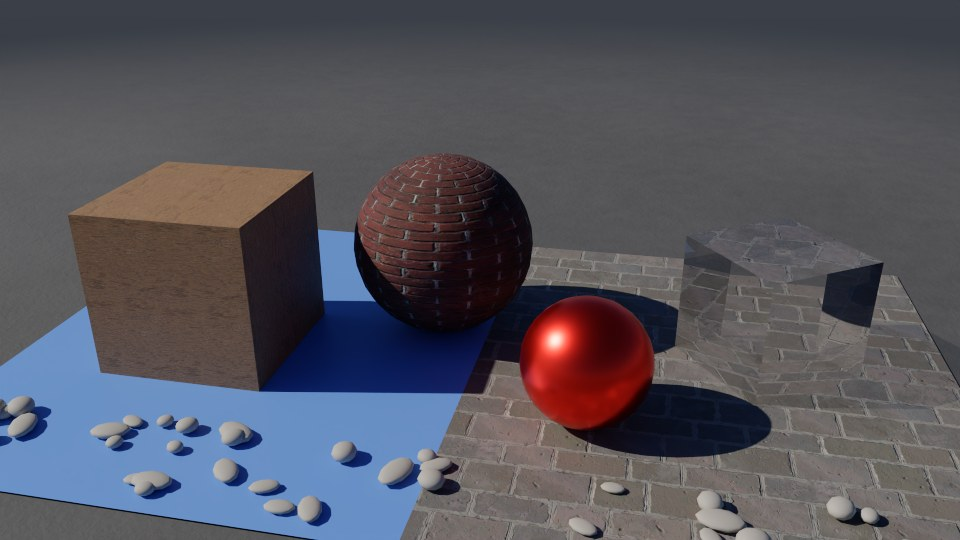
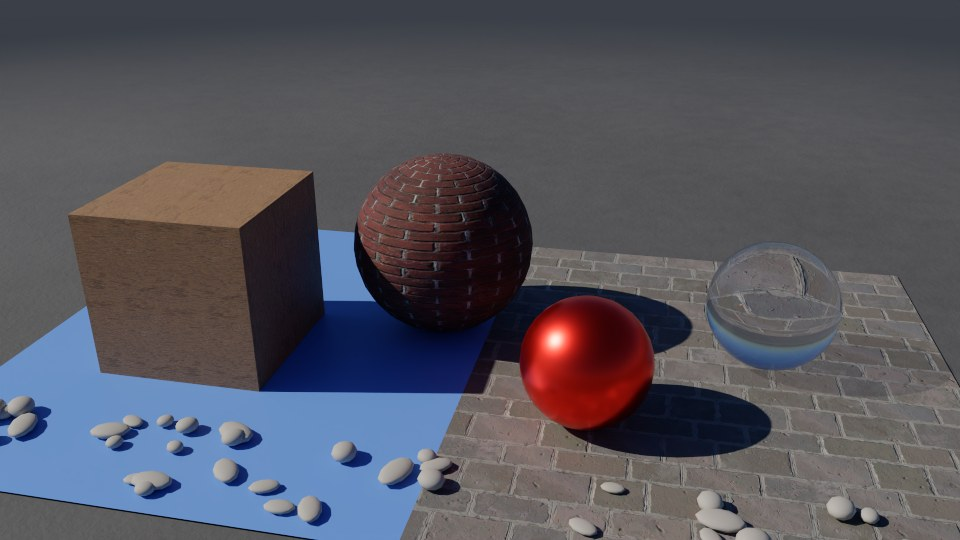
feat: smooth glass -- glass with normals of its own shades by them in the viewport, the path tracer and Cycles; flat only without
Glass took the face's flat normal everywhere, so a ball or a bottle of
glass came out faceted. Now a corner of glass takes its own N or its
point's, as the opaque surfaces do; glass without N -- the panes and
cracks of Glass Fracture -- stays flat. Which way a ray comes into a piece
of glass is still told by the face as its corners go round: the
viewport's glass triangles carry the face's normal beside the corner's
(13 floats a corner), its glass shader keeps the faces turned to the eye
by it and turns a smooth normal that looks away at the rim towards the
eye; the path tracer already decides entering by the face.

The usd_looks example's glass is now a ball with point normals, smooth in
all three renderers.

Claude-Session: https://claude.ai/code/session_01HhnUNtTimHBgdBM7qs8K3b

Changed region(s): [[0.6875, 0.4741, 0.9375, 0.7407], [0.7812, 0.4444, 0.8125, 0.4741]]

diff --git a/tests/test_glass.cpp b/tests/test_glass.cpp
@@ -3,9 +3,10 @@
 // breaks where it is struck -- closed shards that make the pane, slivers at
 // the blow and wide shards further out, cracks square to the pane however
 // it lies, the same every time and on any number of threads; drawn
-// (src/pg/sim/Display.h) apart from the rest, its chips dots below 0; and
-// the RBD Solver (src/pg/sim/Rigid.h) keeps a pane whole -- no cracks --
-// until it breaks, when it throws chips of glass and little dust.
+// (src/pg/sim/Display.h) apart from the rest, its chips dots below 0,
+// smooth by normals of its own and else flat; and the RBD Solver
+// (src/pg/sim/Rigid.h) keeps a pane whole -- no cracks -- until it breaks,
+// when it throws chips of glass and little dust.
 //
 #include "pg/core/CookEngine.h"
 #include "pg/core/Graph.h"
@@ -283,15 +284,18 @@ TEST(glass_is_drawn_apart_from_the_rest_and_its_chips_below_zero) {
     CHECK_EQ(d.glassCount(), glassTriangles);
     std::set<float> kinds;
     for (size_t t = 0; t < d.glassCount(); ++t) {
-        const float* c = d.glass.data() + 30 * t;
-        // Flat: each corner the face's own normal, as its corners go round.
-        const Vec3 a(c[0], c[1], c[2]), b(c[10], c[11], c[12]), e(c[20], c[21], c[22]);
+        const float* c = d.glass.data() + 39 * t;
+        // Flat, of no normals of its own: each corner the face's own
+        // normal, as its corners go round -- and the face's, which way a ray
+        // comes into it.
+        const Vec3 a(c[0], c[1], c[2]), b(c[13], c[14], c[15]), e(c[26], c[27], c[28]);
         const Vec3 n = normalize(cross(b - a, e - a));
         for (int k = 0; k < 3; ++k) {
-            const float* v = c + 10 * k;
+            const float* v = c + 13 * k;
             CHECK(length(Vec3(v[3], v[4], v[5]) - n) < 1e-3f);
             CHECK(Vec3(v[6], v[7], v[8]) == Vec3(0.82f, 0.9f, 0.88f));
             CHECK_EQ(v[9], c[9]);
+            CHECK(length(Vec3(v[10], v[11], v[12]) - n) < 1e-3f);
         }
         kinds.insert(c[9]);
     }
@@ -301,6 +305,83 @@ TEST(glass_is_drawn_apart_from_the_rest_and_its_chips_below_zero) {
     CHECK_NEAR(d.dots[7 + 6], 0.02f, 1e-6f);   // the other
     // Its box takes the glass in.
     CHECK(d.lo.y <= 0.8f + 1e-4f && d.hi.y >= 1.2f - 1e-4f);
+}
+
+TEST(glass_with_normals_of_its_own_is_smooth_and_faces_as_its_corners_go_round) {
+    // Two faces of glass folded along a ridge, the points' N between them
+    // -- as a round piece of glass has them.
+    Geometry geo;
+    geo.addPoints(6);
+    {
+        auto P = geo.positionsForWrite();
+        const Vec3 at[6] = {{0.0f, 0.0f, 0.0f}, {0.0f, 0.0f, 1.0f}, {0.5f, 0.3f, 1.0f},
+                            {0.5f, 0.3f, 0.0f}, {1.0f, 0.0f, 1.0f}, {1.0f, 0.0f, 0.0f}};
+        for (size_t i = 0; i < 6; ++i) P[i] = at[i];
+    }
+    const uint32_t left[4] = {0, 1, 2, 3}, right[4] = {3, 2, 4, 5};
+    geo.addPrimitive(left, true);
+    geo.addPrimitive(right, true);
+    auto glass = geo.primitives().create("glass", AttrType::Int).write<int32_t>();
+    glass[0] = glass[1] = 1;
+    const Vec3 up(0.0f, 1.0f, 0.0f), outLeft = normalize(Vec3(-0.3f, 0.5f, 0.0f)), outRight = normalize(Vec3(0.3f, 0.5f, 0.0f));
+    const std::vector<Vec3> N = {outLeft, outLeft, up, up, outRight, outRight};
+    {
+        auto w = geo.points().create("N", AttrType::Vec3).write<Vec3>();
+        for (size_t i = 0; i < 6; ++i) w[i] = N[i] * 2.0f;  // not a unit long
+    }
+
+    // Each face as its corners go round, out of the solid; a corner shaded
+    // by the N it is given -- that of its point -- or, given none, flat.
+    auto faceOf = [](const Vec3& a, const Vec3& b, const Vec3& c) { return normalize(cross(b - a, c - a)); };
+    auto pointAt = [&](const Vec3& p) {
+        size_t point = 0;
+        for (size_t i = 0; i < 6; ++i) {
+            if (length(geo.positions()[i] - p) < 1e-6f) point = i;
+        }
+        return point;
+    };
+    auto shadedAs = [&](const Geometry& g, const std::vector<Vec3>& given) {
+        bool ok = true;
+        const DisplayGeometry d = displayOf(g);
+        ok = ok && d.glassCount() == 4;
+        for (size_t t = 0; t < d.glassCount(); ++t) {
+            const float* c = d.glass.data() + 39 * t;
+            const Vec3 face = faceOf(Vec3(c[0], c[1], c[2]), Vec3(c[13], c[14], c[15]), Vec3(c[26], c[27], c[28]));
+            for (int k = 0; k < 3; ++k) {
+                const float* v = c + 13 * k;
+                const Vec3 shade = given.empty() ? face : given[pointAt(Vec3(v[0], v[1], v[2]))];
+                ok = ok && length(normalize(Vec3(v[3], v[4], v[5])) - shade) < 1e-4f;
+                ok = ok && length(Vec3(v[10], v[11], v[12]) - face) < 1e-4f;
+            }
+        }
+        // ... and as the renderers have it.
+        const ShadedTriangles s = shadedTriangles(g);
+        ok = ok && s.count() == 4;
+        for (size_t t = 0; t < s.count(); ++t) {
+            ok = ok && s.glass[t] == 1;
+            const Vec3 face = faceOf(s.positions[3 * t], s.positions[3 * t + 1], s.positions[3 * t + 2]);
+            for (size_t k = 0; k < 3; ++k) {
+                const Vec3 shade = given.empty() ? face : given[pointAt(s.positions[3 * t + k])];
+                ok = ok && length(s.normals[3 * t + k] - shade) < 1e-4f;
+            }
+        }
+        return ok;
+    };
+    // Smooth by its points' N.
+    CHECK(shadedAs(geo, N));
+    // ... by its corners' -- before the points'.
+    Geometry corners = geo;
+    {
+        auto w = corners.vertices().create("N", AttrType::Vec3).write<Vec3>();
+        for (size_t c = 0; c < w.size(); ++c) w[c] = N[corners.vertexPoint(c)];
+        auto other = corners.points().find("N")->write<Vec3>();
+        for (size_t i = 0; i < other.size(); ++i) other[i] = Vec3(1.0f, 0.0f, 0.0f);
+    }
+    CHECK(shadedAs(corners, N));
+    // Of none: flat, each face its own.
+    Geometry flat = geo;
+    flat.points().erase("N");
+    CHECK(shadedAs(flat, {}));
 }
 
 TEST(glass_is_whole_until_it_breaks) {

diff --git a/src/pg/sim/Display.h b/src/pg/sim/Display.h
@@ -5,12 +5,14 @@
 //   polygons   triangles (a fan across each closed polygon), lit, in the
 //              colour Cd of each corner -- the vertex's, else the point's,
 //              the primitive's, the detail's, or a light grey -- bent by the
-//              points' N where there is one, else by the faces round each
-//              corner that bend less than 60 degrees from its own: round
-//              things come out round, a box keeps its edges;
+//              corner's N, else its point's, where there is one, else by the
+//              faces round each corner that bend less than 60 degrees from
+//              its own: round things come out round, a box keeps its edges;
 //   glass      the polygons of primitives whose attribute glass is 1 or more:
 //              triangles apart from the rest, the colour their tint -- 2 for
-//              the faces of a crack, what light runs along;
+//              the faces of a crack, what light runs along -- smooth by the
+//              corners' or the points' N where there is one (a bottle, a
+//              lens), else flat;
 //   polylines  the open primitives, as line segments in their colour;
 //   points     those no primitive uses, as dots: pscale wide where they have
 //              one, else a few pixels -- a glass chip (a point attribute
@@ -43,9 +45,11 @@ struct DisplayGeometry {
     /// units a second -- what motion blur needs. Empty when the points have
     /// no v.
     std::vector<float> velocities;
-    /// Ten floats a corner, three corners a triangle: position, normal --
-    /// out of the solid, as its corners turn -- tint, and 1 for a face of
-    /// the pane, 2 for a face of a crack.
+    /// Thirteen floats a corner, three corners a triangle: position,
+    /// normal -- the corner's or its point's N where there is one, else the
+    /// face's --, tint, 1 for a face of the pane, 2 for a face of a crack,
+    /// and the face's normal: out of the solid, as its corners turn --
+    /// which way a ray comes into a piece of it.
     std::vector<float> glass;
     /// Seven floats a dot: position, colour, radius -- world units; 0 for a
     /// dot a few pixels wide; below 0 a chip of glass as wide.
@@ -58,7 +62,7 @@ struct DisplayGeometry {
     size_t dotsLeftOut = 0;
 
     size_t triangleCount() const { return triangles.size() / 27; }
-    size_t glassCount() const { return glass.size() / 30; }
+    size_t glassCount() const { return glass.size() / 39; }
     size_t dotCount() const { return dots.size() / 7; }
     size_t segmentCount() const { return lines.size() / 14; }
     bool empty() const { return triangles.empty() && glass.empty() && dots.empty() && lines.empty(); }
@@ -72,8 +76,9 @@ DisplayGeometry displayOf(const Geometry& geo, size_t maxDots = 400000, bool fac
 
 /// The closed polygons of `geo` as the viewport shades them, for a renderer
 /// of its own: fans of triangles, three corners each -- place, normal (the
-/// points' N where every point has a usable one, else the faces' round the
-/// corner within the viewport's crease; glass flat) and colour (Cd as
+/// corner's N, else its point's, where there is a usable one, else the
+/// faces' round the corner within the viewport's crease; glass without N of
+/// its own flat) and colour (Cd as
 /// displayOf finds it) -- the primitive each came from, and its glass: 0
 /// none, 1 a pane, 2 a crack. Where the points have rest (where they were
 /// before they moved), that of each corner too; where they have a velocity

diff --git a/src/pg/sim/Display.cpp b/src/pg/sim/Display.cpp
@@ -347,12 +347,15 @@ ShadedTriangles shadedTriangles(const Geometry& geo) {
                 if (!v.empty()) out.velocities[3 * t + c] = v[p];
                 if (vertexUv) out.uvs[3 * t + c] = uvAt(*vertexUv, corners[t][c]);
                 else if (pointUv) out.uvs[3 * t + c] = uvAt(*pointUv, p);
-                // The corner's own normal, else its point's, else as the faces bend.
+                // The corner's own normal, else its point's, else as the
+                // faces bend -- glass flat there, as the viewport has it: a
+                // pane's faces, a crack's.
                 const size_t corner = corners[t][c];
+                const bool given = givenNormal(ownN, corner) || givenNormal(pointN, p);
                 Vec3 nrm = givenNormal(ownN, corner) ? normalize(ownN[corner])
                            : givenNormal(pointN, p)  ? normalize(pointN[p])
                                                      : made[3 * t + c];
-                if (out.glass[t] != 0 && length(flat) > 0.5f) nrm = flat;  // glass is flat, as the viewport has it
+                if (out.glass[t] != 0 && !given && length(flat) > 0.5f) nrm = flat;
                 out.normals[3 * t + c] = nrm;
                 out.colors[3 * t + c] = colors.at(out.prims[t], corners[t][c], p);
             }
@@ -434,14 +437,19 @@ DisplayGeometry displayOf(const Geometry& geo, size_t maxDots, bool faces) {
                 const Vec3 col = cornerColor(owner[t], corners[t][static_cast<size_t>(c)], p);
                 grow(d, P[p]);
                 if (kind >= 0.5f) {
-                    // Glass is flat: each face its own normal, as its corners
-                    // go round -- which way it faces tells where a ray comes
-                    // into a piece of it.
+                    // Glass: its face's normal, as its corners go round --
+                    // which way it faces tells where a ray comes into a piece
+                    // of it. Shaded by the corner's N or its point's where
+                    // there is one -- a bottle, a lens -- else flat.
                     const Vec3& a = P[tris[t][0]];
-                    const Vec3 f = normalize(cross(P[tris[t][1]] - a, P[tris[t][2]] - a));
-                    if (length(f) > 0.5f) n = f;
+                    Vec3 f = normalize(cross(P[tris[t][1]] - a, P[tris[t][2]] - a));
+                    if (length(f) > 0.5f) {
+                        if (!givenNormal(ownN, corner) && !givenNormal(pointN, p)) n = f;
+                    } else {
+                        f = n;
+                    }
                     d.glass.insert(d.glass.end(), {P[p].x, P[p].y, P[p].z, n.x, n.y, n.z, col.x, col.y, col.z,
-                                                   kind >= 1.5f ? 2.0f : 1.0f});
+                                                   kind >= 1.5f ? 2.0f : 1.0f, f.x, f.y, f.z});
                     continue;
                 }
                 d.triangles.insert(d.triangles.end(), {P[p].x, P[p].y, P[p].z, n.x, n.y, n.z, col.x, col.y, col.z});

diff --git a/src/pg/gl/Volume.cpp b/src/pg/gl/Volume.cpp
@@ -1332,20 +1332,24 @@ void main() {
 // The faces of the glass turned to the eye, into a buffer as the meshes go
 // into theirs: the normal, the tint -- as a number, below 0 on the face of
 // a crack -- and how far along the ray. Drawn twice: the nearest face, and
-// then, peeled off it, the nearest behind that. A face turned away is where
-// a ray leaves a piece of glass, not where it comes into one.
+// then, peeled off it, the nearest behind that. A face turned away -- as
+// its corners go round, whatever its normals -- is where a ray leaves a
+// piece of glass, not where it comes into one.
 const char* kGlassVertex = R"(#version 330 core
 layout(location = 0) in vec3 a_position;
 layout(location = 1) in vec3 a_normal;
 layout(location = 2) in vec3 a_color;
 layout(location = 3) in float a_kind;  // 1 a face of the pane, 2 of a crack
+layout(location = 4) in vec3 a_face;   // the face's normal, as its corners go round
 uniform mat4 u_viewProj;
 out vec3 v_world, v_normal, v_color;
+flat out vec3 v_face;
 flat out float v_kind;
 void main() {
     v_world = a_position;
     v_normal = a_normal;
     v_color = a_color;
+    v_face = a_face;
     v_kind = a_kind;
     gl_Position = u_viewProj * vec4(a_position, 1.0);
 }
@@ -1353,6 +1357,7 @@ void main() {
 
 const char* kGlassFragment = R"(#version 330 core
 in vec3 v_world, v_normal, v_color;
+flat in vec3 v_face;
 flat in float v_kind;
 out vec4 o_g;
 uniform vec3 u_eye;
@@ -1361,13 +1366,18 @@ uniform sampler2D u_first;   // the first
 vec2 octWrap(vec2 v) { return (1.0 - abs(v.yx)) * vec2(v.x >= 0.0 ? 1.0 : -1.0, v.y >= 0.0 ? 1.0 : -1.0); }
 void main() {
     vec3 view = v_world - u_eye;
-    if (dot(v_normal, view) >= 0.0) discard;
+    if (dot(v_face, view) >= 0.0) discard;
     float far = length(view);
     if (u_peel) {
         float first = texelFetch(u_first, ivec2(gl_FragCoord.xy), 0).w;
         if (first < 0.0 || far <= first * (1.0 + 1e-5) + 1e-5) discard;
     }
+    // Its normal -- smooth where the geometry gives one -- turned to the eye
+    // where, at the edge of a round piece, it would look away.
     vec3 n = normalize(v_normal);
+    vec3 back = -view / far;
+    float facing = dot(n, back);
+    if (facing < 0.02) n = normalize(n + back * (0.02 - facing));
     n /= abs(n.x) + abs(n.y) + abs(n.z);
     vec3 c = floor(clamp(v_color, 0.0, 1.0) * 255.0 + 0.5);
     float code = 1.0 + c.r + c.g * 256.0 + c.b * 65536.0;
@@ -3170,7 +3180,7 @@ void VolumeRenderer::uploadGeometry() {
     gl_.BindVertexArray(0);
     upload(dotVao_, dotBuffer_, d.dots, {{0, 3}, {1, 3}, {2, 1}});
     upload(curveVao_, curveBuffer_, d.lines, {{0, 3}, {1, 4}});
-    upload(glassVao_, glassBuffer_, d.glass, {{0, 3}, {1, 3}, {2, 3}, {3, 1}});
+    upload(glassVao_, glassBuffer_, d.glass, {{0, 3}, {1, 3}, {2, 3}, {3, 1}, {4, 3}});
     glassVertices_ = static_cast<GLsizei>(d.glassCount() * 3);
     geoVertices_ = static_cast<GLsizei>(d.triangles.size() / 9);
     geoShadowDirty_ = true;

diff --git a/examples/usd/make_looks.py b/examples/usd/make_looks.py
@@ -31,17 +31,13 @@ def mesh(path, points, counts, indices, st=None, st_interpolation="faceVarying")
     return m
 
 
-def box(path, centre, size, turn=0.0):
+def box(path, centre, size):
     h = [s / 2 for s in size]
-    c = (0.0, 0.0, 0.0) if turn else centre
-    corners = [(c[0] + sx * h[0], c[1] + sy * h[1], c[2] + sz * h[2]) for sz in (-1, 1) for sy in (-1, 1) for sx in (-1, 1)]
+    corners = [(centre[0] + sx * h[0], centre[1] + sy * h[1], centre[2] + sz * h[2])
+               for sz in (-1, 1) for sy in (-1, 1) for sx in (-1, 1)]
     faces = [(0, 2, 3, 1), (4, 5, 7, 6), (0, 1, 5, 4), (2, 6, 7, 3), (0, 4, 6, 2), (1, 3, 7, 5)]
     st = [(0, 0), (1, 0), (1, 1), (0, 1)] * 6
-    m = mesh(path, corners, [4] * 6, [i for f in faces for i in f], st)
-    if turn:
-        m.AddTranslateOp().Set(Gf.Vec3d(*centre))
-        m.AddRotateYOp().Set(turn)
-    return m
+    return mesh(path, corners, [4] * 6, [i for f in faces for i in f], st)
 
 
 def sphere(path, centre, radius, rows=16, columns=32):
@@ -133,13 +129,13 @@ s.CreateInput("roughness", Sdf.ValueTypeNames.Float).Set(0.3)
 red.CreateSurfaceOutput().ConnectToSource(s.ConnectableAPI(), "surface")
 bind(sphere("/World/bead", (0.55, 0.28, 0.45), 0.28).GetPrim(), red)
 
-# A block of glass.
+# A ball of glass, smooth by its normals.
 glass = material("Glass")
 s = shader(glass, "Surface", "UsdPreviewSurface")
 s.CreateInput("opacity", Sdf.ValueTypeNames.Float).Set(0.05)
 s.CreateInput("ior", Sdf.ValueTypeNames.Float).Set(1.5)
 glass.CreateSurfaceOutput().ConnectToSource(s.ConnectableAPI(), "surface")
-bind(box("/World/block", (1.35, 0.3, -0.2), (0.6, 0.6, 0.6), 35).GetPrim(), glass)
+bind(sphere("/World/crystal", (1.35, 0.31, -0.2), 0.3, rows=24, columns=48).GetPrim(), glass)
 
 # The floor: two halves, two subsets -- blue OpenPBR plastic, and paving by
 # the name of the program's preset. A centimetre up: the renderers' ground

diff --git a/docs/usd-import.md b/docs/usd-import.md
@@ -71,8 +71,9 @@ i export totiž čtou rohy přednostně a na ostatních primech by tam našly
 nuly. Volné body (Points) si hodnotu nechají na bodech. Normály se
 sejdou na rozích také: renderery i viewport berou normálu rohu před
 normálou bodu, takže ostré hrany z Blenderu (`faceVarying`) zůstanou ostré.
-Jen rychlosti zůstanou tam, kde je prim měl, protože renderery je berou
-z bodů.
+Podle normál se stínuje i sklo: hladká skleněná koule nebo láhev zůstane
+hladká, sklo bez normál se kreslí plochu po ploše. Jen rychlosti zůstanou
+tam, kde je prim měl, protože renderery je berou z bodů.
 
 Parametry:
 - **File:** `.usd`, `.usda`, `.usdc` nebo `.usdz`. Relativní cesta se čte ze
@@ -188,7 +189,8 @@ jako PointInstancer (dva tvary kamene s vlastním materiálem):
   a normálovou mapou;
 - cihlová koule: UsdPreviewSurface s UsdUVTexture a normálovou mapou;
 - korálek z červeného kovu: jen hodnoty;
-- skleněný kvádr: `opacity` 0,05;
+- skleněná koule: `opacity` 0,05, s normálami bodů, takže hladká
+  (sklo bez normál se kreslí plochu po ploše);
 - podlaha ze dvou GeomSubsetů: modrý plast z OpenPBR a dlažba
   pojmenovaná jako preset (`paving`), proto s fotkami presetu.
 
@@ -200,7 +202,7 @@ Vypadají, jak je program zapsal. Dlažba je preset, a tak je dostane.
 ./build/prototype sim usd_looks looks.png --renderer cycles
 ```
 
-![Příklad usd_looks v Cycles: dřevěná bedna s normálovou mapou na modré plastové podlaze, cihlová koule, lesklý korálek z červeného kovu a skleněný kvádr na dlažbě, vpředu oblázky z PointInstanceru. Každý materiál přišel z USD v jiné podobě: MaterialX, UsdPreviewSurface, OpenPBR](img/usd-looks.jpg)
+![Příklad usd_looks v Cycles: dřevěná bedna s normálovou mapou na modré plastové podlaze, cihlová koule, lesklý korálek z červeného kovu a hladká skleněná koule na dlažbě, vpředu oblázky z PointInstanceru. Každý materiál přišel z USD v jiné podobě: MaterialX, UsdPreviewSurface, OpenPBR](img/usd-looks.jpg)
 
 ### USD Camera
 

diff --git a/docs/destruction.md b/docs/destruction.md
@@ -1320,7 +1320,10 @@ barvu země, vypínač mřížky a oblohu za scénou (`sky_behind`).
 nejdou do vyrovnávací paměti neprůhledných ploch, ale do dvou vlastních
 vrstev: nejbližší plocha skla přivrácená k oku a za ní — odloupnutá od
 první (*depth peeling*) — další. Odvrácené plochy jsou tam, kde paprsek
-ze skla vychází, takže každý střep dá jednu vrstvu. Hlavní průchod pak
+ze skla vychází, takže každý střep dá jednu vrstvu. Přivrácenost určuje
+pořadí rohů plochy; normála, podle které se sklo stínuje, je normála `N`
+rohu nebo bodu, má-li ji geometrie (hladká koule, láhev), jinak normála
+plochy. Hlavní průchod pak
 na paprsku až k neprůhledné ploše složí vrstvu po vrstvě: tenká tabule
 odráží z obou svých stěn (Fresnel se Schlickovou aproximací, *F*₀ = 0,04,
 odraz dvou stěn 2*F*/(1 + *F*)) oblohu tak, jak je vidět za scénou, zemi
@@ -1714,7 +1717,8 @@ v `tests/test_usd.cpp` a `test_glass_breaks_as_glass` v `tests/python/test_pg.py
   pavučina;
 - kreslení: sklo zvlášť od ostatních trojúhelníků, plochá normála podle
   pořadí rohů, barva skla, druh 1 a 2; skleněná tříska jako tečka se
-  záporným poloměrem;
+  záporným poloměrem; sklo s normálami `N` bodů nebo rohů se stínuje
+  podle nich (viewport i renderery), přivrácenost dál podle rohů;
 - tabule posunutá a otočená celá je celá (žádná trhlina); střep o
   milimetr vedle, zmizelý kus nebo prasklý spoj ukáže všechny; bez póz
   (klid) zůstanou všechny plochy; samotný střep nemá tabuli;

diff --git a/docs/cycles.md b/docs/cycles.md
@@ -66,7 +66,7 @@ through Cycles 4.5.0, 64 samples a pixel, denoised by Open Image Denoise`.
 | koule, kvádry, válce, kužely, toroidy | rozdělené na trojúhelníky tak jemně, aby to nebylo vidět; holdout a shadow catcher jako v Blenderu |
 | `roughness`, `metallic`, `Cd` | Principled BSDF s odleskem jako v Blenderu (Specular IOR Level 0,5) |
 | `translucency` (stébla, listí) | k Principled BSDF přimíchaný Translucent BSDF |
-| sklo (`glass` 1) | Glass BSDF s indexem 1,5 a nádechem barvy |
+| sklo (`glass` 1) | Glass BSDF s indexem 1,5 a nádechem barvy; hladké podle normál `N` rohů nebo bodů, kde je síť má (láhev, čočka, sklo z USD), jinak ploché plocha po ploše |
 | povrch vody | Glass BSDF s indexem 1,33, uvnitř pohlcuje světlo podle Clarity a nabírá barvu Water Looku |
 | drť kusů (volné body s `pscale`) | hranaté úlomky kamene a střepy skla jako objekty jedné z 18 sítí, natočené podle `orient`, každý v odstínu své barvy ([pathtracer.md §4](pathtracer.md#drť-déšť-a-mokrý-povrch)) |
 | kapky deště | vřetena tak dlouhá, kolik kapka proletí za Streak snímku: Glass BSDF s indexem 1,33 smíchaný s Transparent BSDF podle Opacity, zezadu jen průhledná; objekt nevrhá stín |

diff --git a/docs/pathtracer.md b/docs/pathtracer.md
@@ -149,7 +149,7 @@ z prvního bodu, jinak z detailu.
 | `roughness` | 0,5 | 0 zrcadlo, 1 matný povrch (odlesk GGX) |
 | `metallic` | 0 | 1 kov: barva tónuje odraz |
 | `translucency` | 0 | kolik rozptýleného světla projde na druhou stranu: list, stéblo, papír |
-| `glass` | – | 1 tabule skla (lom a Fresnel, index 1,5), 2 prasklina (matná bílá) |
+| `glass` | – | 1 tabule skla (lom a Fresnel, index 1,5), 2 prasklina (matná bílá); hladké podle vlastních normál `N`, bez nich ploché. Kudy paprsek do skla vchází, určuje pořadí rohů plochy |
 | `material`, `texture…` | – | z čeho povrch je a jeho fotky: ze tří stran, nebo podle `uv` rohů s normálovou mapou a alfa výřezem ([materials.md](materials.md#podle-uv-a-normálové-mapy)) |
 
 Povrch vody je voda s indexem lomu 1,33. S hloubkou nabírá barvu Water
